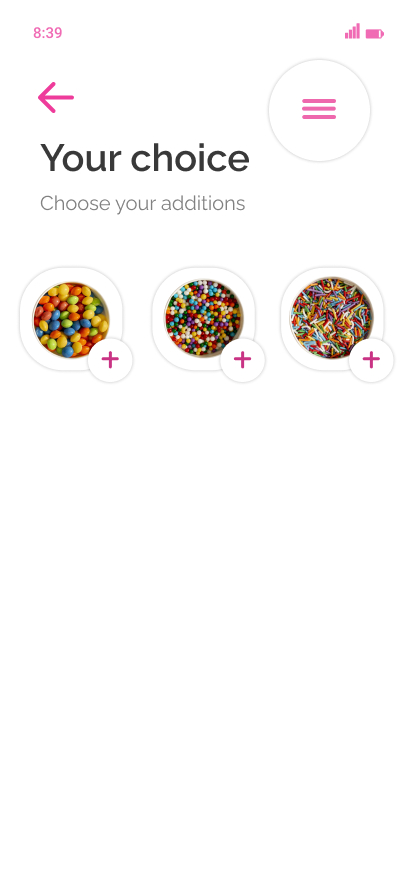
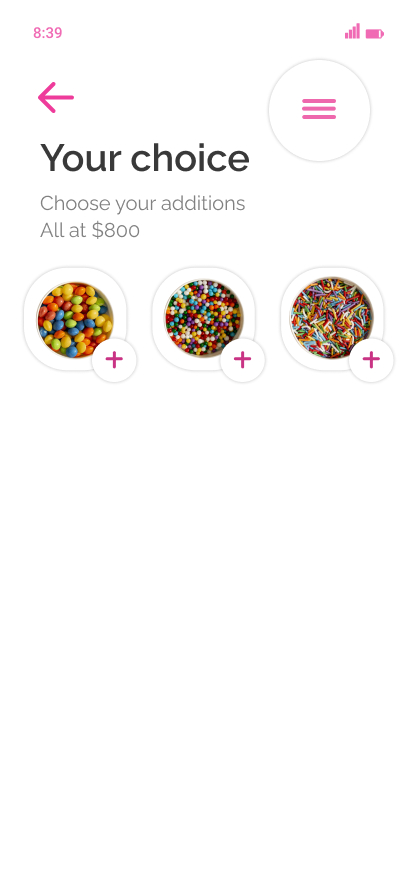
se agregaron imágenes de adicones y ajustes

Changed region(s): [[0.058, 0.3125, 0.2899, 0.4375], [0.2319, 0.25, 0.3478, 0.2812], [0.087, 0.25, 0.2029, 0.2812]]

diff --git a/Modelo/Logica.js b/Modelo/Logica.js
@@ -25,14 +25,14 @@ let pedidoTemp;
 
 class Logica {
     constructor() {
-        this.pantallaLogin = loadImage("/image/PantallaInicioSesion.jpg");
-        this.pantallaRegister = loadImage("/image/PantallaRegistro.jpg");
-        this.pantallaMenu = loadImage("/image/PantallaMenu.jpg");
-        this.pantallaOpciones = loadImage("/image/PantallaSOpcion.jpg");
-        this.op1 = loadImage("/image/PA-Op1.png");
-        this.op2 = loadImage("/image/PA-Op2.png");
-        this.op3 = loadImage("/image/PA-Op3.png");
-        this.op4 = loadImage("/image/PA-Op4.png");
+        this.pantallaLogin = loadImage("./image/PantallaInicioSesion.jpg");
+        this.pantallaRegister = loadImage("./image/PantallaRegistro.jpg");
+        this.pantallaMenu = loadImage("./image/PantallaMenu.jpg");
+        this.pantallaOpciones = loadImage("./image/PantallaSOpcion.jpg");
+        this.op1 = loadImage("./image/PA-Op1.png");
+        this.op2 = loadImage("./image/PA-Op2.png");
+        this.op3 = loadImage("./image/PA-Op3.png");
+        this.op4 = loadImage("./image/PA-Op4.png");
 
 
 
@@ -42,6 +42,8 @@ class Logica {
         this.iniciarSesion();
         this.registrar();
         this.cargarPlatos();
+        this.cargarAdicionales();
+
     }
 
     pintar() {
@@ -68,6 +70,9 @@ class Logica {
             image(this.pantallaOpciones,0,0);
             this.ocultarTodo(loginForm);
             this.ocultarTodo(registerForm);
+            for(let i = 0; i < adicionales.length; i++){
+                adicionales[i].pintar();
+            }
             if(pedidoTemp){
             switch (pedidoTemp.image) {
                 case 1:
@@ -145,9 +150,9 @@ class Logica {
     }
 
     cargarAdicionales(){
-        adicionales.push(new Adicion(1, 17, 268, 112, 114, false));
-        adicionales.push(new Adicion(2, 152, 268, 112, 114, false));
-        adicionales.push(new Adicion(3, 281, 268, 112, 114, false));
+        adicionales.push(new Adicion(1, 21, 265, 119, 120, false));
+        adicionales.push(new Adicion(2, 149, 265, 119, 120  , false));
+        adicionales.push(new Adicion(3, 278, 265, 119, 120, false));
     }
 
     cambiarPantalla(buttonElement, nuevaPagina) {

diff --git a/Modelo/Adicion.js b/Modelo/Adicion.js
@@ -2,7 +2,7 @@ class Adicion{
 
     constructor (urlImagen, posX, posY, ancho, alto, selected){
 
-        this.imagen = loadImage("/image/Adicion" + urlImagen + ".png");
+        this.imagen = loadImage("./image/Adicion" + urlImagen + ".png");
         this.posX = posX;
         this.posY = posY;
         this.ancho = ancho;
@@ -13,7 +13,7 @@ class Adicion{
 
     pintar(){
 
-        if (this.selected){
+        if (this.selected == false){
             image(this.imagen, this.posX, this.posY, this.ancho, this.alto)
         }
 

diff --git a/index.html b/index.html
@@ -25,6 +25,7 @@
     <script src="./Modelo/Usuario.js"></script>
     <script src="./Modelo/Plato.js"></script>
     <script src="./Modelo/Pedido.js"></script>
+    <script src="./Modelo/Adicion.js"></script>
     <script src="./Modelo/Logica.js"></script>
     <script src="./Controlador/Control.js"></script>
     <script src="./Vista/Main.js"></script>

diff --git a/Modelo/Plato.js b/Modelo/Plato.js
@@ -8,7 +8,7 @@ class Plato {
         this.nombre = nombre;
         this.sabor = sabor;
         this.precio = precio;
-        this.imagen = loadImage("/image/Opcion" + urlImagen + ".png");
+        this.imagen = loadImage("./image/Opcion" + urlImagen + ".png");
     }
 
     pintar() {
